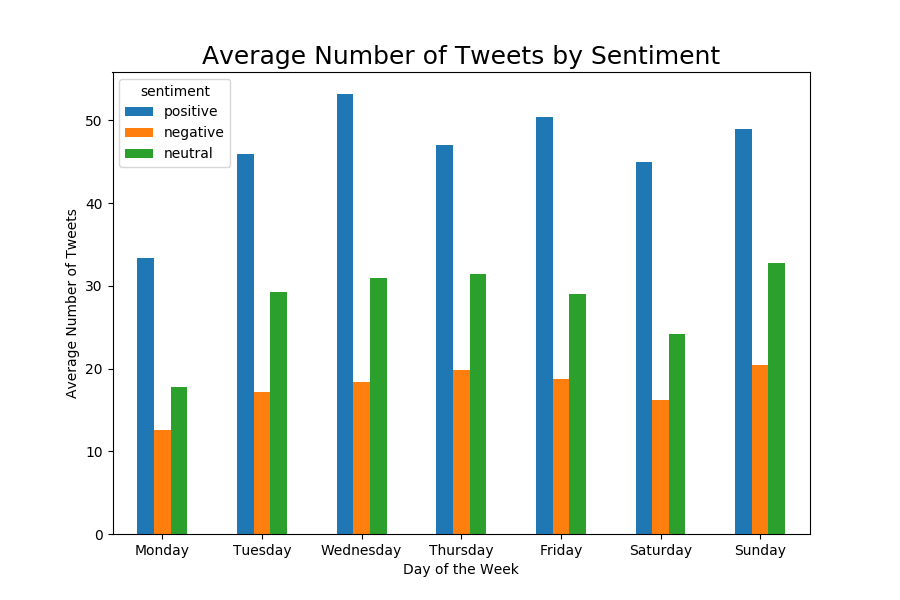
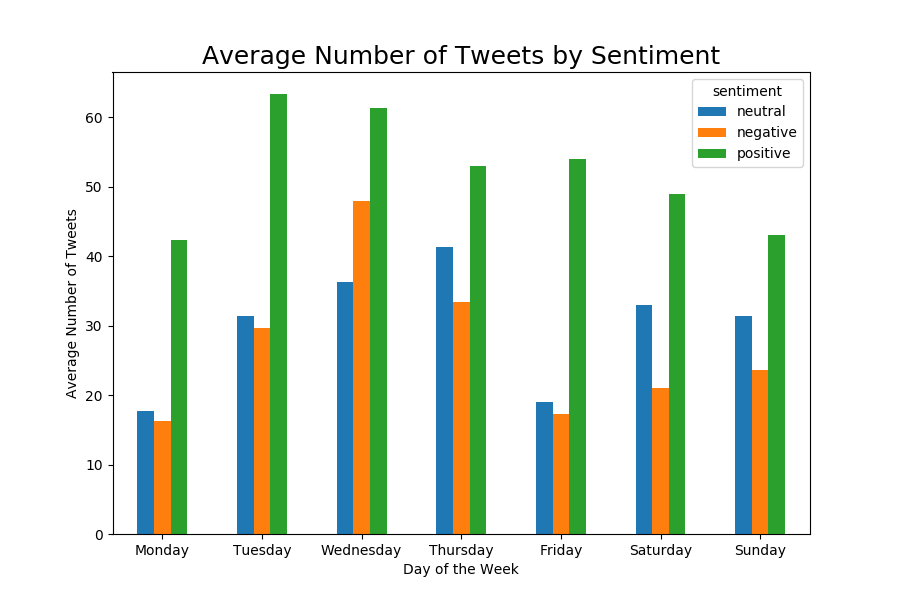
Fixed sentiment analysis to work w new datasets

diff --git a/SentimentAnalysis.py b/SentimentAnalysis.py
@@ -3,6 +3,7 @@ import tweepy
 from tweepy import OAuthHandler
 from textblob import TextBlob
 from datetime import datetime, timedelta
+from math import isnan
 
 import pandas as pd
 import matplotlib.pyplot as plt
@@ -136,28 +137,18 @@ users = ['ShawHelp','ShawInfo']
 
 def sentiment_analysis():
     for user in users:
-        tweets =  pd.read_csv(user + '_tweets.csv', names=['tweet_date', 'text'],encoding='utf-8')
+        tweets =  pd.read_csv('datasets/' + user + '_tweets.csv', names=['tweet_date', 'text'],encoding='utf-8',na_values="NaN")
+        tweets = tweets[pd.notnull(tweets['text'])]
+
         plot_sentiment_numbers(user,tweets)
-
-    tweets =  pd.read_csv('shawtags.csv', names=['tweet_date', 'text'],encoding='utf-8')
-    plot_sentiment_numbers("hastag_shawInternet",tweets)
-
-def avg_tweets_per_day():
-    for user in users:
-        tweets =  pd.read_csv(user + '_tweets.csv', names=['tweet_date', 'text'],encoding='utf-8')
         plot_avg_per_day(user,tweets)
-
-    tweets =  pd.read_csv('shawtags.csv', names=['tweet_date', 'text'],encoding='utf-8')
-    plot_avg_per_day("hastag_shawInternet",tweets)
-
-def total_tweets_per_day():
-    for user in users:
-        tweets =  pd.read_csv(user + '_tweets.csv', names=['tweet_date', 'text'],encoding='utf-8')
         plot_sentiment_per_day(user,tweets)
 
-    tweets =  pd.read_csv('shawtags.csv', names=['tweet_date', 'text'],encoding='utf-8')
+    tweets =  pd.read_csv('datasets/ShawInternet_hashtags.csv', names=['tweet_date', 'text'],encoding='utf-8')
+    tweets = tweets[pd.notnull(tweets['text'])]
+
+    plot_sentiment_numbers("hastag_shawInternet",tweets)
+    plot_avg_per_day("hastag_shawInternet",tweets)
     plot_sentiment_per_day("hastag_shawInternet",tweets)
 
 sentiment_analysis()
-avg_tweets_per_day()
-total_tweets_per_day()

diff --git a/ShawTimelineAnalysis.py b/ShawTimelineAnalysis.py
@@ -1,0 +1,7 @@
+
+
+################################################################################################
+# MAIN STUFF
+################################################################################################
+
+users = ['ShawHelp','ShawInfo']
